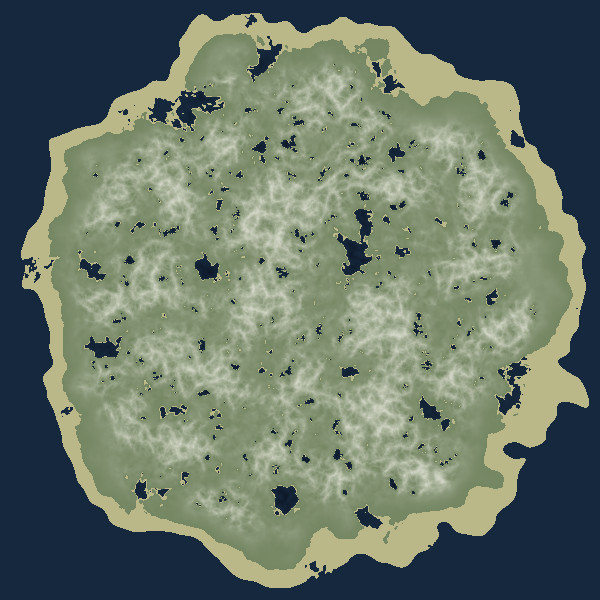
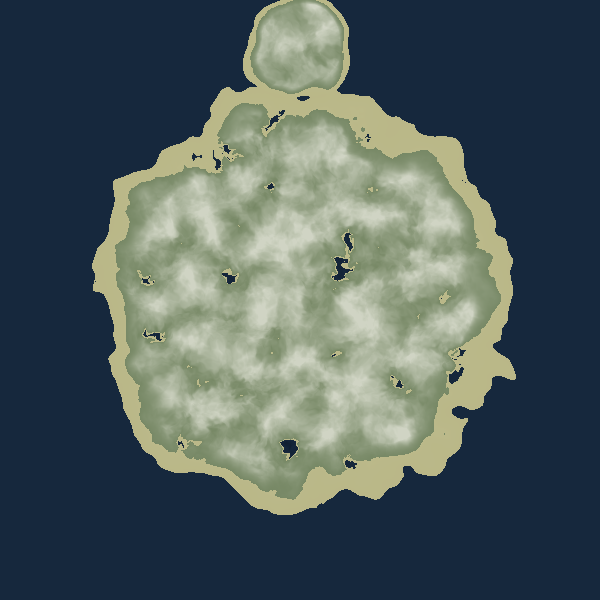
4.13 follow-up: one island in an ocean — 236 m across, placed islets, ridges that only add
Task 4.13 shipped by slate17.

diff --git a/docs/FINDINGS.md b/docs/FINDINGS.md
@@ -344,7 +344,7 @@ Counted from `content/`:
 | Category | Files | Framework that consumes it |
 |---|---|---|
 | `cycle_modifiers/` | **1** | 6.2 — deck, draw, stacking, Cycle-weighted rules. Done. |
-| `unlocks/` | **1** | 6.9 — unlock tree + UI, and 6.6's Salvage curve. Both done. |
+| `unlocks/` | ~~1~~ **7** (2026-08-19, lp) | 6.9 — unlock tree + UI, and 6.6's Salvage curve. Both done. |
 | `ranged_weapons/` | **1** | 5.3 — bow, projectiles, host-authoritative hit validation. Done. |
 | `haulables/`, `hooks/` | 1 each | |
 | `stations/`, `scatter/` | 2 each | |
@@ -372,6 +372,23 @@ the balance and variety problems it would be run to find. Content first, then 2.
 gap between "the framework is done" and "the game has things in it", and it is currently the largest
 gap in the project. The one-at-a-time authoring rule applies: these want real attention per file, not
 a directory generated in a pass.
+
+**2026-08-19 (lp) — the `unlocks/` third is fixed; `cycle_modifiers/` and `ranged_weapons/` are not,
+so this finding stays under `## Open`.** Six unlocks authored one at a time (`unlock_loping_gait`,
+`unlock_coin_worm`, `unlock_bottomless_quiver`, `unlock_thin_step`, `unlock_night_pyre`,
+`unlock_cauter_seal` — see `docs/SPECS.md`'s new F-236 block for what each one changes about how a
+run is played and why). All six are `category = "powerup"`, gating an existing PowerupDef that
+already rolls in a real `content/loot/*.tres` table — confirmed live before authoring against it
+(D-111/F-173: `is_content_unlocked()` currently has no consumer for the other seven §4.6 categories,
+so an `attunement`/`poi`/`enemy`/`cycle_modifier`/`island_modifier`/`cosmetic`/`loadout` row would
+sell but gate nothing yet — D-146 records this so the next author doesn't rediscover it the hard
+way). `tools/unlock_check.gd` gained `_check_authored_content()`, which now validates every
+`content/unlocks/*.tres` file generically (not just the worked example): schema-clean, no two rows
+silently shadow the same `gates_id`, and every `powerup`-category row's `gates_id` both resolves to a
+real `PowerupDef` and actually appears as a POWERUP entry in an authored loot table. Verified:
+`.agent/bin/agent godot --script tools/unlock_check.gd` → `UNLOCK_CHECK failures=0` (7 rows total).
+**Left for whoever picks up the rest:** `cycle_modifiers/` (task 6.3, `todo`) and `ranged_weapons/`
+(no task id yet, per the roadmap — DELEGATION.md's Current state entry for this task says the same).
 
 ---
 
@@ -463,7 +480,67 @@ number that won't actually deliver it.
 
 ---
 
-### F-239 · The inv command reads slot keys that do not exist — inv always prints 'carrying nothing' and inv clear silently removes nothing
+### F-243 · The run loop is a line, not a circle — after defeat or extraction there is no path to a next run short of relaunching the process
+
+**Area:** systems · **Severity:** high · **Found:** 2026-08-19 by hollow7
+
+Verified by the 2026-08-19 game-loop audit (`tools/loop_audit_check.gd`, both endings driven on the
+shipped `levels/hollowmere.tscn`): every link of DESIGN.md §5's run arc now works — spawn, harvest,
+craft, build, eat, night wave, chests, Wellspring rewards, Mire response, Cycle+modifier,
+extraction with full banking, defeat with fraction banking. The arc then stops. Nothing anywhere
+starts the next run:
+
+- `ui/hud/defeat_hud.gd` has no actions at all — it subscribes to `run_wiped`/`salvage_banked` and
+  renders; there is no "new run" control for the player staring at the summary.
+- `ExtractionShip`'s successful departure likewise ends in a HUD state, not a flow.
+- No file under `ui/`, `autoload/`, `core/`, or `systems/` calls `reload_current_scene()` /
+  `change_scene_to_*` for a run reset, and no service exposes a `reset_run()` — grep for
+  restart/new_run/reload comes back empty of any run-scoped hit.
+- The run-scoped state that would need resetting is spread across at least: CycleService (cycle,
+  spread multiplier), CycleModifierService (active draws), MireGrid (the whole grid),
+  SalvageService (`wellsprings_capped_this_run`), PowerupService stacks, InventoryService stores,
+  PlayerHealth states, EnemyWorld population, WorldDeltaLog, placed buildables, opened chests,
+  capped Wellsprings, repaired ship. Nothing owns the set.
+
+6.8 (run summary) and 6.10 (menu/lobby) are both marked done, and no D-number records "relaunch to
+restart" as a deliberate ship decision — so this is a gap, not a choice. It bites hardest in
+co-op: a six-player lobby that wipes must fully relaunch six processes and re-invite through Steam
+to play again, which turns the "one more run" moment — the exact moment DESIGN.md §5.2 is built
+around — into a lobby teardown.
+
+Suggested shape (not prescribed): a HOST-scope `run restart` through the existing command front
+door plus a DefeatHud/extraction button that submits it; host reloads the level scene and
+broadcasts, services reset on a `run_started` signal they already mostly subscribe to
+(CycleService.run_started exists). The per-service reset inventory above is the real work; the
+audit doc carries the full trace.
+
+---
+
+### F-244 · The build verb refuses natural coordinates — nothing ground-snaps a command placement, so 'build wall_wood ~ ~ ~' reads as a bug
+
+**Area:** systems · **Severity:** low · **Found:** 2026-08-19 by hollow7
+
+Found by the 2026-08-19 game-loop audit. `build <id> <x y z>` (task 3.16,
+`autoload/build_service.gd::_cmd_build`) submits `Transform3D(Basis.IDENTITY, at)` raw. The
+placement ghost's snapping is client-side presentation, and the host validates but does not snap —
+so the y a player naturally supplies (`~`, their own capsule origin, ~1 m above terrain) floats the
+piece's base above the support probe, and EVERY free-standing piece refuses with 'nothing
+underneath it'. Measured on flat open ground in hollowmere: all 13 buildables refused at player
+height; raycast-grounded y placed a gate first try (costs paid).
+
+A player typing the obvious thing gets a refusal that reads like the validator is broken, when the
+actual problem is half a metre of y. Options, smallest first: (a) `_cmd_build` raycasts down from
+the given point and grounds y before submitting (command-side, no trust change — the host still
+validates); (b) the help text says "y must be exact ground level" (honest, cheap, worse); (c) the
+host snaps command-sourced placements the way the ghost does (changes D-034's surface, probably
+overkill). `tools/loop_audit_check.gd`'s build phase is the regression harness either way — it
+tries raw-height first and grounded second, so the transcript shows both behaviours.
+
+---
+
+## Resolved
+
+### F-239 · The inv command reads slot keys that do not exist — inv always prints 'carrying nothing' and inv clear silently removes nothing — **fixed**
 
 **Area:** systems · **Severity:** medium · **Found:** 2026-08-19 by hollow7
 
@@ -486,7 +563,17 @@ somewhere a check will keep it honest.
 
 ---
 
-## Resolved
+**Resolved 2026-08-19 by hollow7.** Fixed the same session it was filed (2026-08-19 game-loop audit). `_clear_inventory` and
+`_list_inventory` in `autoload/inventory_service.gd` now read the store's real snapshot keys
+(`item_id`/`amount`, per `inventory_store.gd:87`) instead of `item`/`count`, with a comment naming
+this finding so nobody "tidies" the keys back.
+
+Verified two ways: `tools/loop_audit_check.gd` now asserts `inv`'s rendered message contains real
+contents at the one moment the inventory is provably non-empty (right after a chest payout) — PASS
+"`inv` renders the real contents (F-239): peer 1 carries 40 item(s)" — and the same run's
+`_total_items` helper (same keys) read 40→100 across the Wellspring reward grant, which is the
+delta that exposed the bug in the first place. `command_check` and `command_catalog_check` remain
+green.
 
 ### F-242 · Any session can route lane work, so six orders reached the queues from agents that were not the director — **fixed**
 

diff --git a/docs/DECISIONS.md b/docs/DECISIONS.md
@@ -1274,6 +1274,36 @@ the largest single cost M4 has added**, and F-235 names the remaining win: the m
 `continent` and `ridge_mask` hash separately from `terrain_hash`, so a cross-platform mismatch says
 which one drifted rather than just that the surface did.
 
+**Sequoyah's direction, same day, after seeing the first render: the island was far too big, and the
+brief is one main island plus one or two mini islands really close to it, with big ocean otherwise.**
+Four consequences, all of them in this task:
+
+* **`ISLAND_RADIUS` 512 → 118 m** — an island ~236 m across, the class the hand-authored Hollowmere
+  is in (192 m, D-045) and what one evening can cover. The Mire grid still covers 1024 m; that is
+  the right way round, terrain sized to the run rather than to the simulation's bookkeeping.
+* **`HEIGHT_SCALE` 60 → 26 m.** Sixty metres of relief across 236 m is a cone whose every slope
+  beats the player's 46° floor limit.
+* **Shape scales with the island, texture does not.** Continental noise, its warp and the coast
+  jitter are authored against a 512 m island and scaled by `FREQUENCY_SCALE`, so a smaller island
+  has the same number of bays rather than cropping most of them out. Detail and ridges keep their
+  absolute frequency, because a ridge is tens of metres and a bump underfoot is a few metres whatever
+  size the island is — scaling those put crests 11 m apart and turned the interior into a sponge.
+* **Islets are placed, not grown.** One or two, at 1.22× the radius, from a fixed table of unit
+  vectors indexed by seed — a table rather than an angle because this file may not use `sin`/`cos`
+  (they resolve differently across platforms, and D-017/D-028 rest on this function being
+  bit-identical). Noise that produces satellites at all produces them out to the horizon, which is
+  the archipelago the first render showed.
+
+**A ridge only ever adds.** Re-centring the ridged fractal to −1..1 made it cut as deep as it lifted:
+22 m pits on a 26 m island, and an interior riddled with lakes. It is thresholded now, so troughs sit
+on the floor and only crests exist.
+
+**Two constants exist because of this, and callers must prefer them to the obvious ones:**
+`WORLD_RADIUS` (islets sit past `ISLAND_RADIUS`, so *that* is no longer where the land ends —
+anything culling or bounding the world wants this) and `MAX_HEIGHT` (`HEIGHT_SCALE` is the noise
+amplitude, not the peak: `LAND_BIAS` lifts the continent and ridges add on top). `tools/terrain_check.gd`
+asserted both of the old meanings and had to be brought forward with the model.
+
 ## Template
 
 ```

diff --git a/.agent/JOURNAL.md b/.agent/JOURNAL.md
@@ -5919,3 +5919,13 @@ Game-loop audit complete, both endings driven on the shipped map: tools/loop_aud
 Files: `autoload/inventory_service.gd`, `tools/loop_audit_check.gd`, `docs/AUDIT-2026-08-19-LOOP.md`
 
 Commit at time of writing: `989e2bb`
+
+---
+
+### DONE · 4.13 · slate17 · 2026-08-19T17:43:24+00:00
+
+**Terrain look: domain warp + masked ridged layer + per-biome amplitude tables (`WORLDGEN.md` §1, D-142); extend `check_determinism`, re-run `bench_chunks`**
+
+Completed.
+
+Commit at time of writing: `136b8bb`
